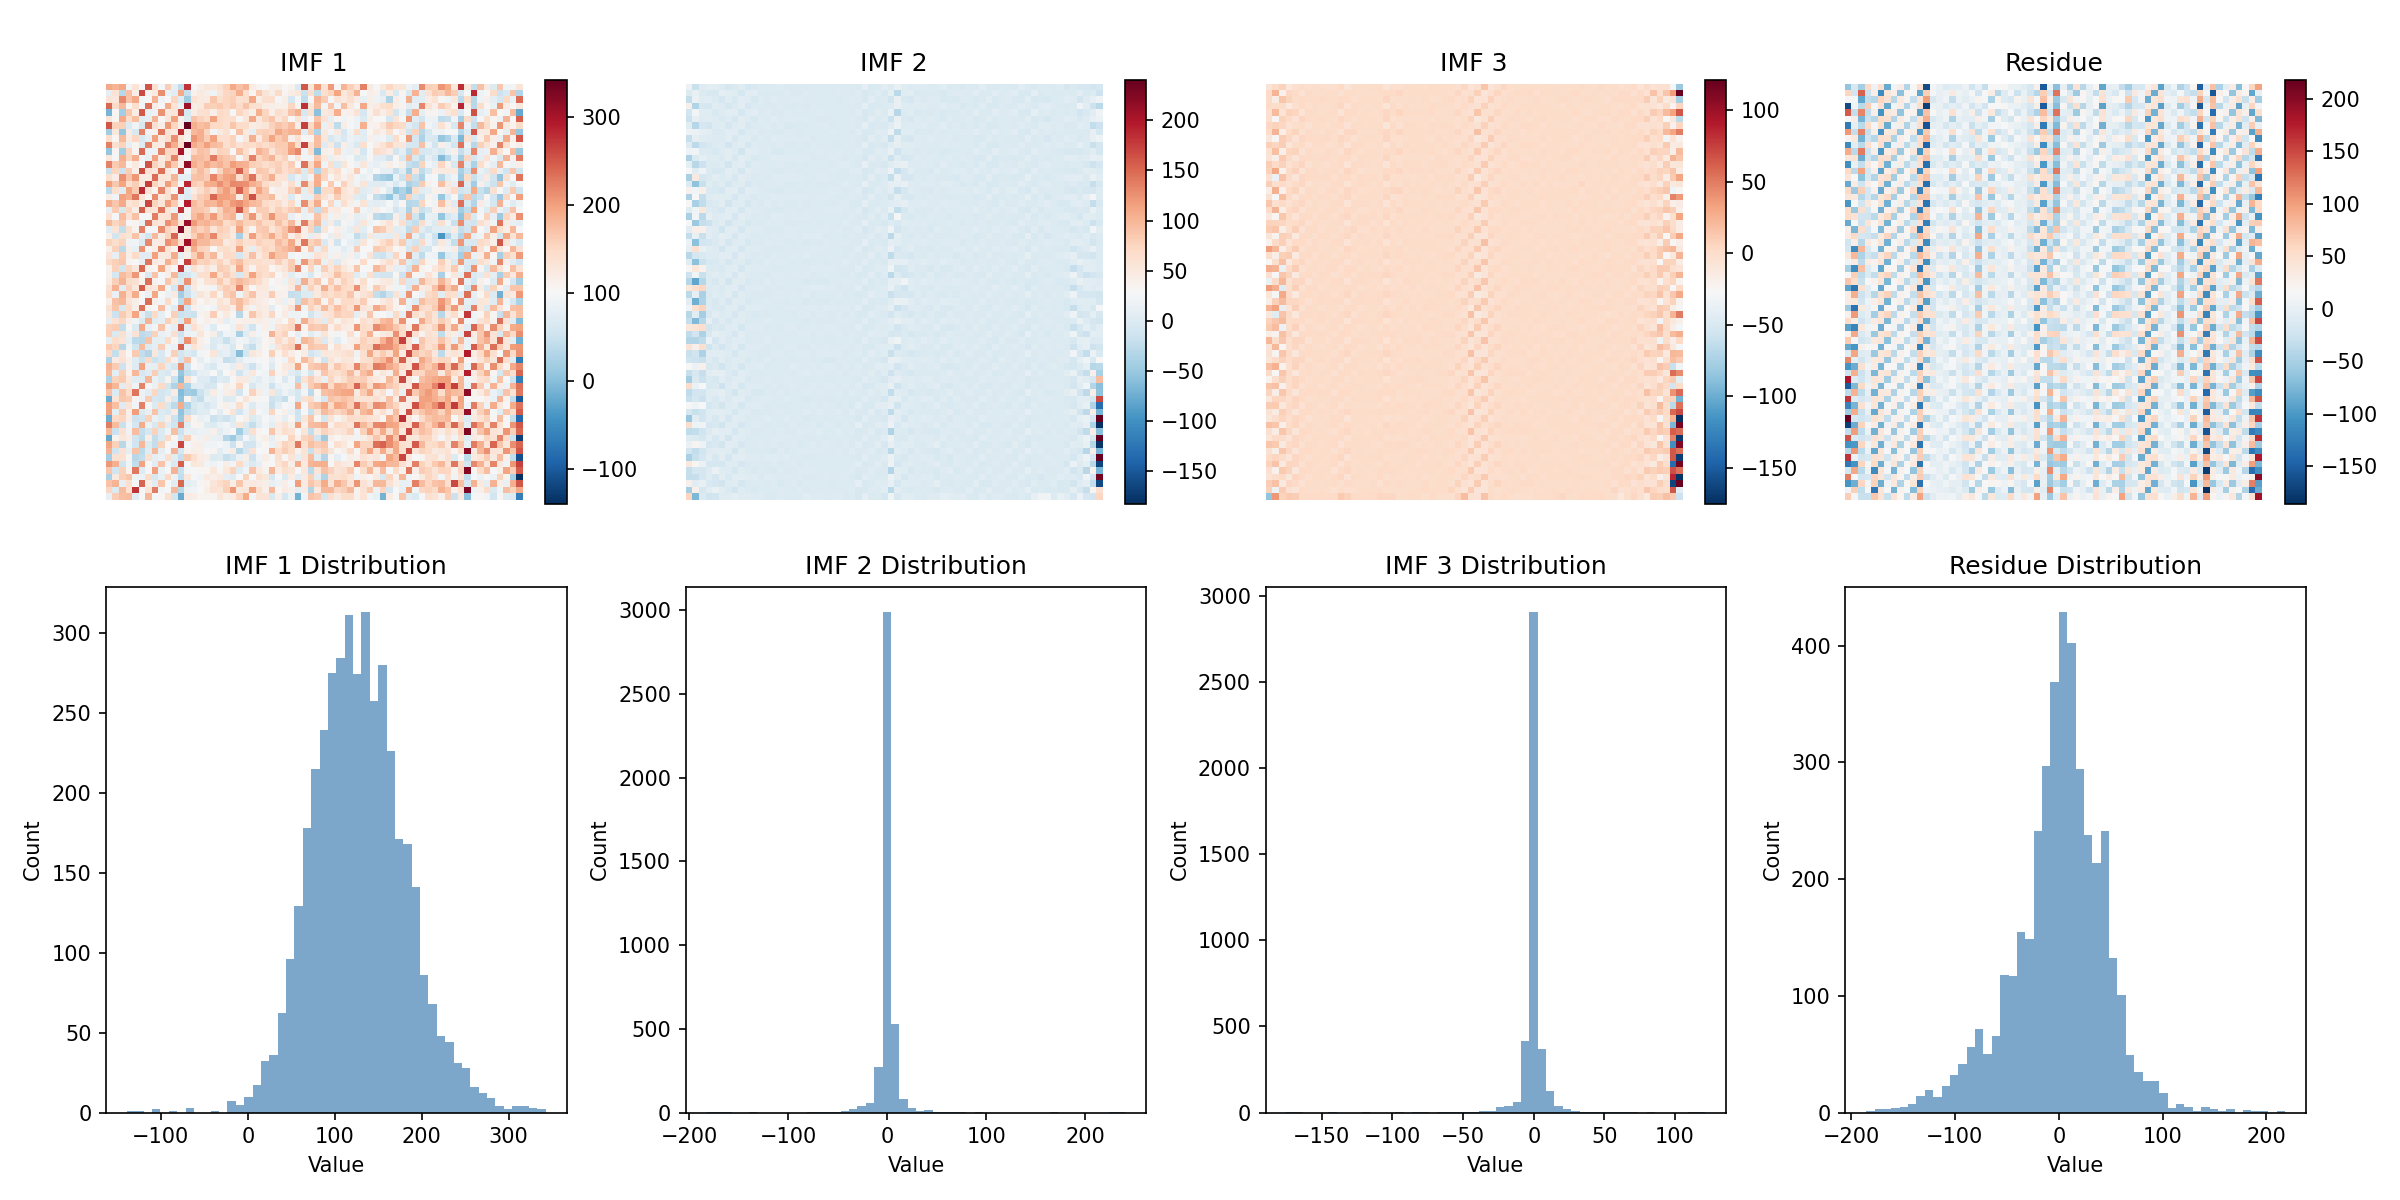
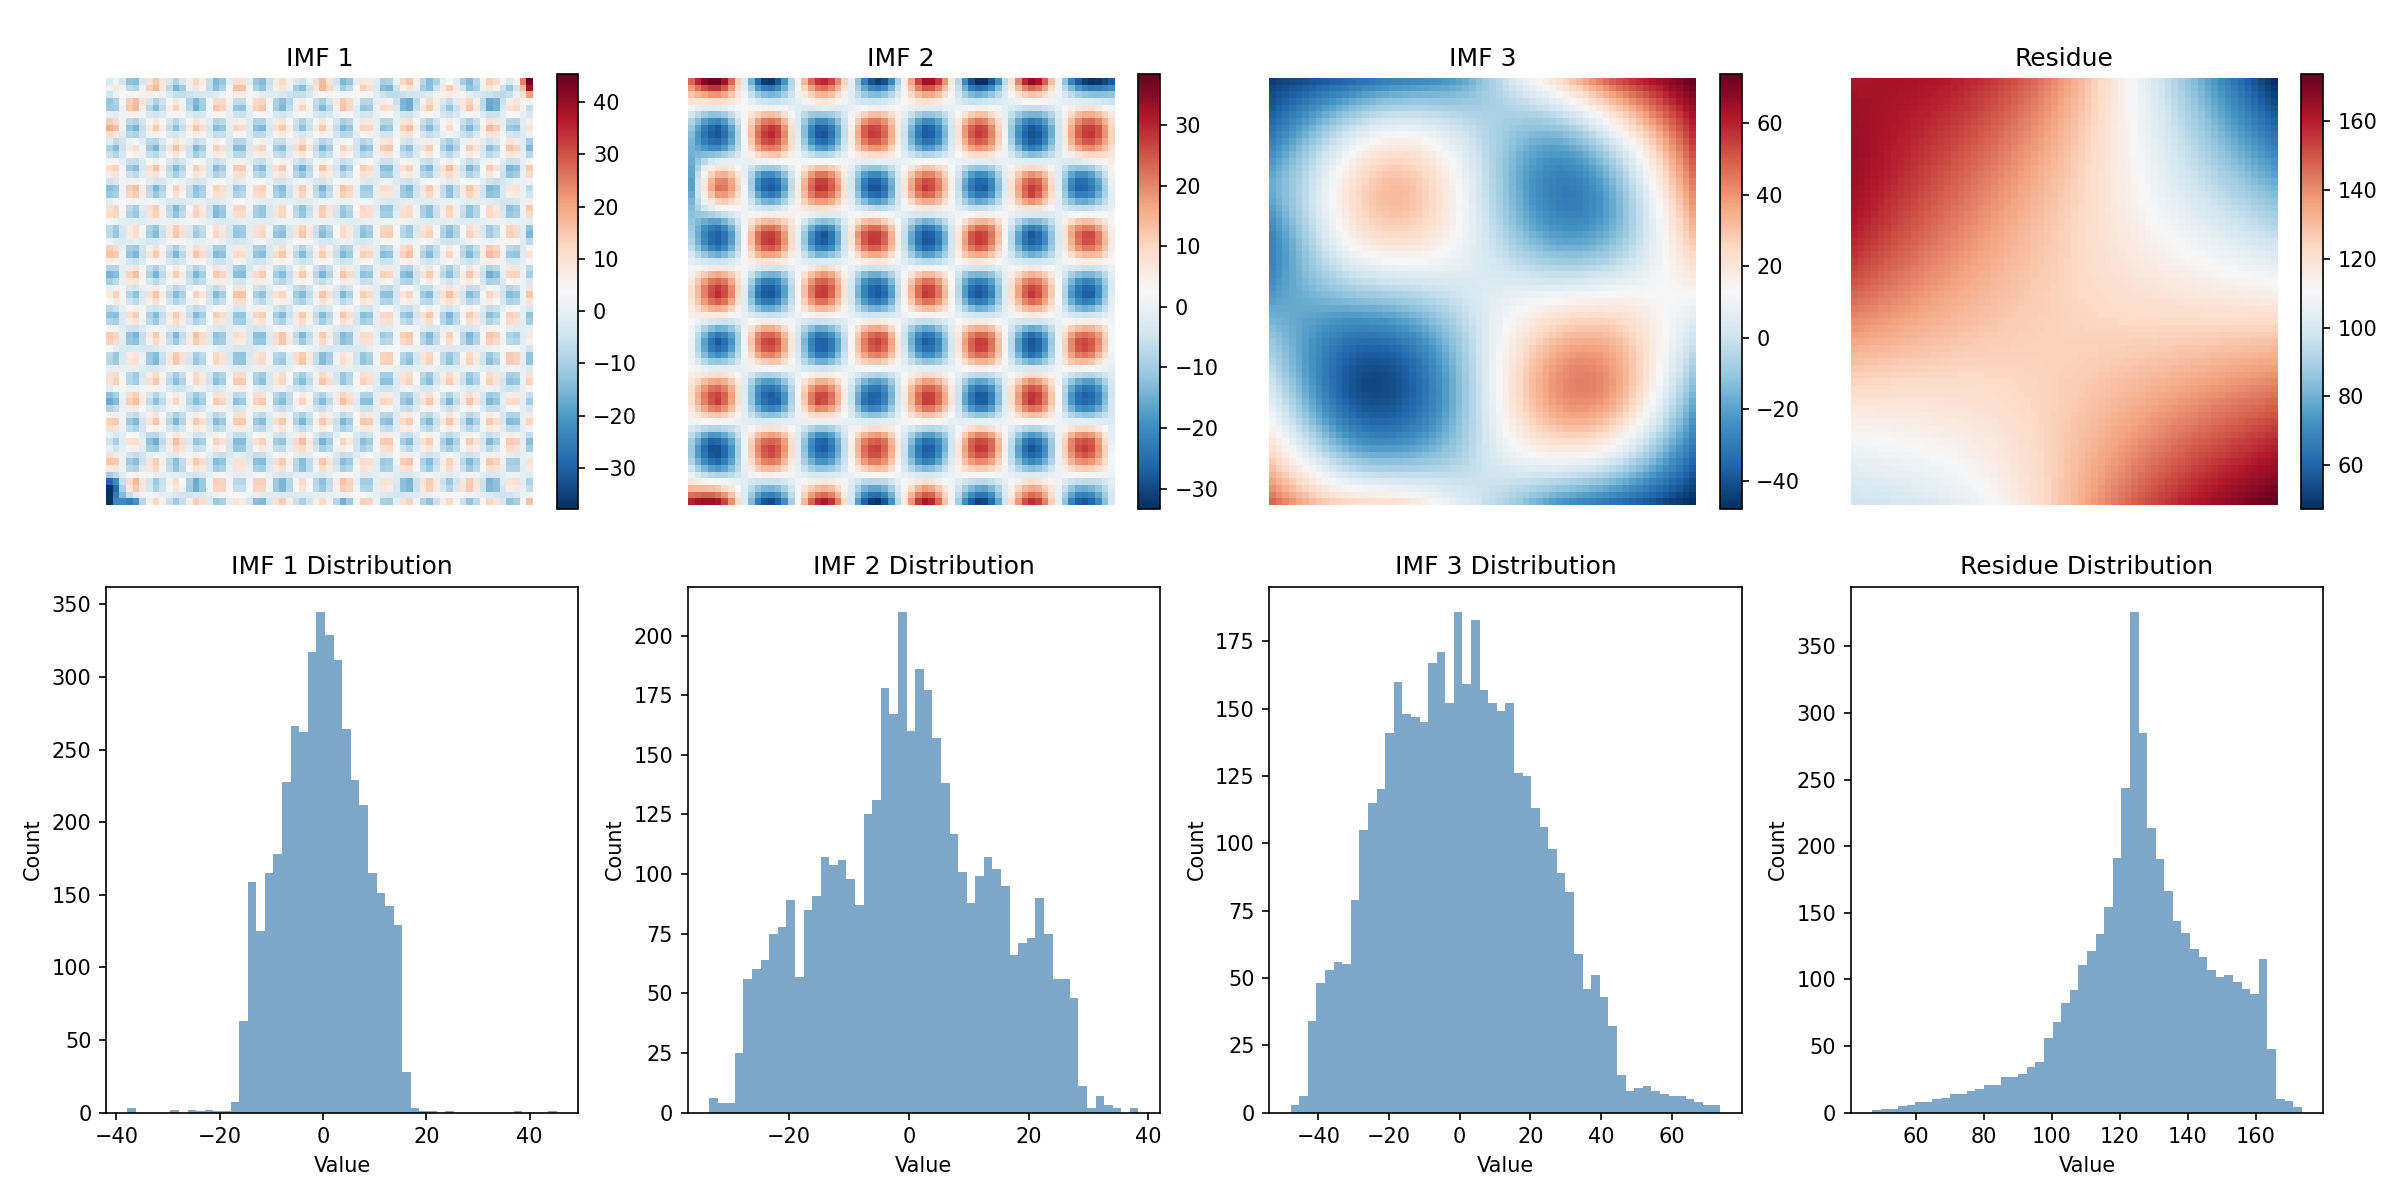
revise-v02

diff --git a/bemd/gridfit.py b/bemd/gridfit.py
@@ -4,7 +4,7 @@
 
 import numpy as np
 from scipy import sparse
-from scipy.sparse.linalg import lsqr
+from scipy.sparse.linalg import spsolve
 
 
 def gridfit(x, y, z, xnodes, ynodes, smoothness=1.0):
@@ -61,7 +61,6 @@ def gridfit(x, y, z, xnodes, ynodes, smoothness=1.0):
     indy = np.clip(indy, 0, ny - 2)
 
     # Linear index: column-major storage matching MATLAB convention
-    # ind = indy + ny * indx
     ind = indy + ny * indx
 
     # Normalized coordinates within each cell
@@ -76,7 +75,7 @@ def gridfit(x, y, z, xnodes, ynodes, smoothness=1.0):
     t1 = np.minimum(tx, ty)
     t2 = np.maximum(tx, ty)
 
-    row_idx = np.repeat(np.arange(n), 3)
+    row_idx = np.tile(np.arange(n), 3)
     col_idx = np.concatenate([ind, ind + ny + 1, ind + L])
     values = np.concatenate([1 - t2, t1, t2 - t1])
 
@@ -96,7 +95,7 @@ def gridfit(x, y, z, xnodes, ynodes, smoothness=1.0):
         dy2 = dy[j_y] / yscale
         m_y = len(ind_y)
 
-        row_y = np.repeat(np.arange(m_y), 3)
+        row_y = np.tile(np.arange(m_y), 3)
         col_y = np.concatenate([ind_y - 1, ind_y, ind_y + 1])
         val_y = np.concatenate([
             -2.0 / (dy1 * (dy1 + dy2)),
@@ -115,7 +114,7 @@ def gridfit(x, y, z, xnodes, ynodes, smoothness=1.0):
         dx2 = dx[i_x] / xscale
         m_x = len(ind_x)
 
-        row_x = np.repeat(np.arange(m_x), 3)
+        row_x = np.tile(np.arange(m_x), 3)
         col_x = np.concatenate([ind_x - ny, ind_x, ind_x + ny])
         val_x = np.concatenate([
             -2.0 / (dx1 * (dx1 + dx2)),
@@ -142,11 +141,13 @@ def gridfit(x, y, z, xnodes, ynodes, smoothness=1.0):
         A_full = A
         rhs_full = rhs
 
-    # Solve using LSQR (more robust than normal equations for potentially
-    # rank-deficient systems)
-    result = lsqr(A_full, rhs_full, atol=1e-12, btol=1e-12,
-                  iter_lim=max(10000, ngrid))
-    zgrid_flat = result[0]
+    # Solve via normal equations (A'*A)\(A'*rhs) using direct sparse solver
+    # This matches MATLAB gridfit's 'backslash' solver for overdetermined systems
+    # Add small Tikhonov regularization for numerical stability
+    A_full_csc = A_full.tocsc()
+    AtA = A_full_csc.T @ A_full_csc + 1e-10 * sparse.eye(ngrid, format='csc')
+    Atrhs = A_full_csc.T @ rhs_full
+    zgrid_flat = spsolve(AtA, Atrhs)
 
     # Reshape: the linear index is ind = iy + ny*ix,
     # so zgrid_flat stores nx columns of ny elements each.

diff --git a/bemd/extrema2.py b/bemd/extrema2.py
@@ -75,13 +75,17 @@ def extrema2(xy):
         # Check peaks on down-up diagonal
         sextmax, sextmin = _extremos_diag(iext, jext, xy, 1)
 
-        # Include corner points
+        # Include corner points matching MATLAB: [M; N*M-M] in column-major 1-based
+        # M -> (M,1) in 1-based = (M-1,0) in 0-based -> row-major: (M-1)*N
+        # N*M-M -> (M,N-1) in 1-based = (M-1,N-2) in 0-based -> row-major: (M-1)*N+(N-2)
         corners1 = np.array([np.ravel_multi_index((M - 1, 0), (M, N)),
-                             np.ravel_multi_index((0, N - 1), (M, N))])
+                             np.ravel_multi_index((M - 1, N - 2), (M, N))])
         smax = np.intersect1d(smax, np.union1d(corners1, sextmax))
         smin = np.intersect1d(smin, np.union1d(corners1, sextmin))
 
         # Peaks on up-down diagonals
+        # MATLAB: [1; N*M] in column-major 1-based = (1,1) and (M,N)
+        # -> (0,0) and (M-1,N-1) in 0-based -> row-major: 0 and M*N-1
         all_extrema2 = np.union1d(smax, smin)
         if len(all_extrema2) > 0:
             iext2, jext2 = np.unravel_index(all_extrema2, (M, N))
